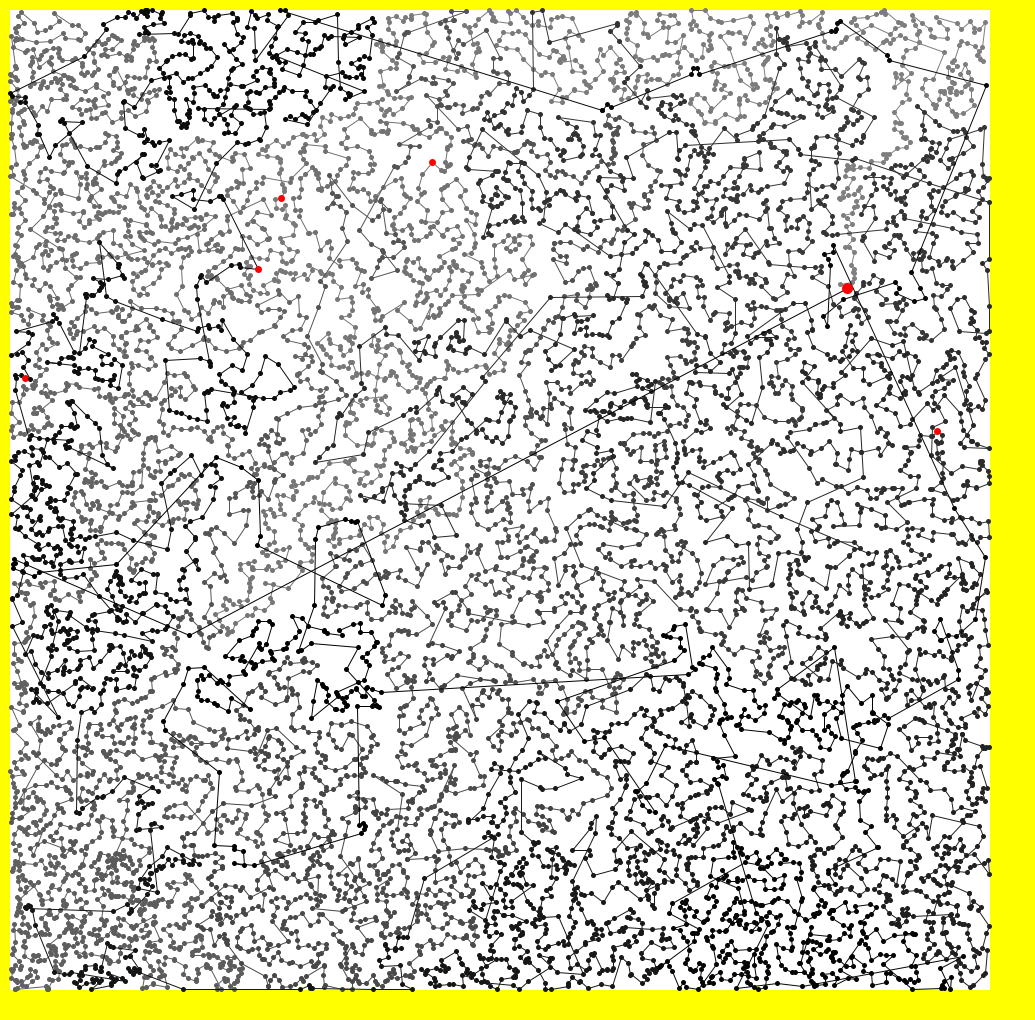
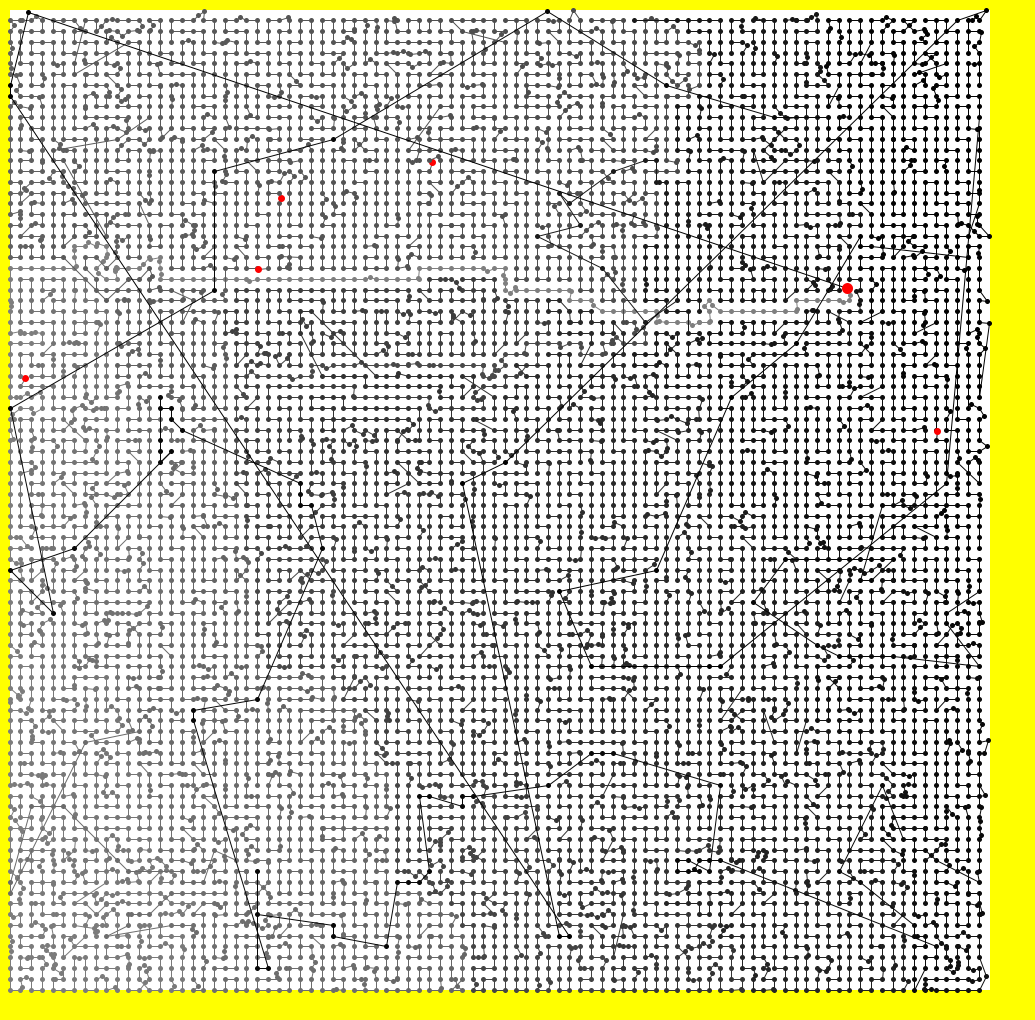
Grid distribution completed

diff --git a/Marathon/solution.cpp b/Marathon/solution.cpp
@@ -26,24 +26,40 @@ struct TPoint
   }
 };
 
-bool compX(const TPoint &a, const TPoint &b)
-{
-  if (a.x != b.x)
-    return a.x < b.x;
-  return a.y < b.y;
-}
-
 inline double dist(TPoint &p1, TPoint &p2)
 {
   return sqrt((i64)(p1.x-p2.x)*(p1.x-p2.x) + (i64)(p1.y-p2.y)*(p1.y-p2.y) + 0.0);
 }
 
-inline TPoint randPoint(int maxx = MAXX, int maxy = MAXY)
+inline TPoint randPoint(int type, int minx = 0, int miny = 0, int maxx = MAXX, int maxy = MAXY)
 {
+  switch (type)
+  {
+    case 1:
+    {
+      return TPoint(rand()%maxx, rand()%maxy);
+    }
+    case 2:
+    {
+      int choice = rand()&1;
+      if (choice == 0)
+        return TPoint(rand()%maxx, miny);
+      else
+        return TPoint(rand()%maxx, maxy);
+    }
+  }
   return TPoint(rand()%maxx, rand()%maxy);
 }
 
 vector<TPoint> P;
+
+bool compX(const int a, const int b)
+{
+  if (P[a].x != P[b].x)
+    return P[a].x < P[b].x;
+  return P[a].y < P[b].y;
+}
+
 vector<char> visited;
 int n, N;
 
@@ -80,28 +96,95 @@ double calc(int start)
   return tourLength;
 }
 
+int cnt;
 double fastCalc(int start)
 {
-  TPoint first = P[start];
-  list<TPoint> V(P.begin(), P.end());
+  int current = start;
+  int C = P.size();
+  
+  vector<char> visited;
+  visited.assign(C, 0);
+  visited[current] = 1;
+
+  list<int> V;
+  for(int i=0; i<C; i++)
+    V.push_back(i);
+
   V.sort(compX);
-  list<TPoint>::iterator it;
-  for(it = V.begin(); (it != V.end()) && !(*it == first); ++it);
+
+  list<int>::iterator cur, next;
+  for(cur = V.begin(); (cur != V.end()) && !(*cur == current); ++cur);
+  V.erase(cur); // To Change
+
+  double tourLength = 0.0;
+  double nextDist, tempDist;
+  for(int k=0; k<C-1; k++)
+  {
+    next = V.begin();
+    nextDist = 1e15;
+    for(list<int>::iterator it = V.begin(); it != V.end(); ++it)
+    {
+      //cerr << nextDist << endl;
+      //cerr << (P[current].x - P[*it].x) << endl;
+      //cerr << (nextDist - (P[current].x - P[*it].x)) << endl;
+      tempDist = dist(P[current], P[*it]);
+      if (nextDist < fabs(P[current].x - P[*it].x + 0.0))
+      {
+        cnt++;
+        break;
+      }
+      if (tempDist < nextDist)
+      {
+        nextDist = tempDist;
+        next = it;
+      }
+    }
+    tourLength += nextDist;
+    cur = next;
+    current = *cur;
+    V.erase(cur); // To Change
+  }
+  tourLength += dist(P[*cur], P[start]);
+  return tourLength;
+}
+
+void isotropyGen()
+{
+  for(int i=P.size(); i<n+N; i++)
+    P.push_back(randPoint(1));
+}
+
+void webGen()
+{
+  double coef = 11.0/(log(N)/log(2.0));
+  //cerr << coef << endl;
+  int sqrtN = sqrt(N/1.2 + 0.0);
+  int d = 1000000000 / sqrtN;
+  for(int i=0; i<sqrtN; i++)
+  {
+    for(int j=0; j<sqrtN; j++)
+    {
+      P.push_back(TPoint(i*d, j*d));
+    }
+  }
+
+  isotropyGen();
 }
 
 
 class AntiTravelingSalesperson {
 public:
-	vector<int> placeLocations(int N, vector<int> X, vector<int> Y) {
-    srand(time(NULL));
+	vector<int> placeLocations(int N, vector<int> X, vector<int> Y) 
+  {
+    //srand(time(NULL));
     n = X.size();
     ::N = N;
 
     for(int i=0; i<n; i++)
       P.push_back(TPoint(X[i], Y[i]));
 
-    for(int i=0; i<N; i++)
-      P.push_back(randPoint());
+    //isotropyGen();
+    webGen();
 
     vector<int> answer;
     for(int i=0; i<N; i++)
@@ -109,7 +192,16 @@ public:
       answer.push_back(P[n+i].x);
       answer.push_back(P[n+i].y);
     }
-    //fprintf(stderr, "%.9lf\n", res);
+
+    double t1 = clock();
+    double ans1 = calc(0);
+    double t2 = clock();
+    double ans2 = fastCalc(0);
+    double t3 = clock();
+    cerr << cnt << endl;
+    fprintf(stderr, "%lf\n", (t2 - t1) / 1000.0);
+    fprintf(stderr, "%lf\n", (t3 - t2) / 1000.0);
+    assert(ans1 == ans2);
     return answer;
 	}
 
